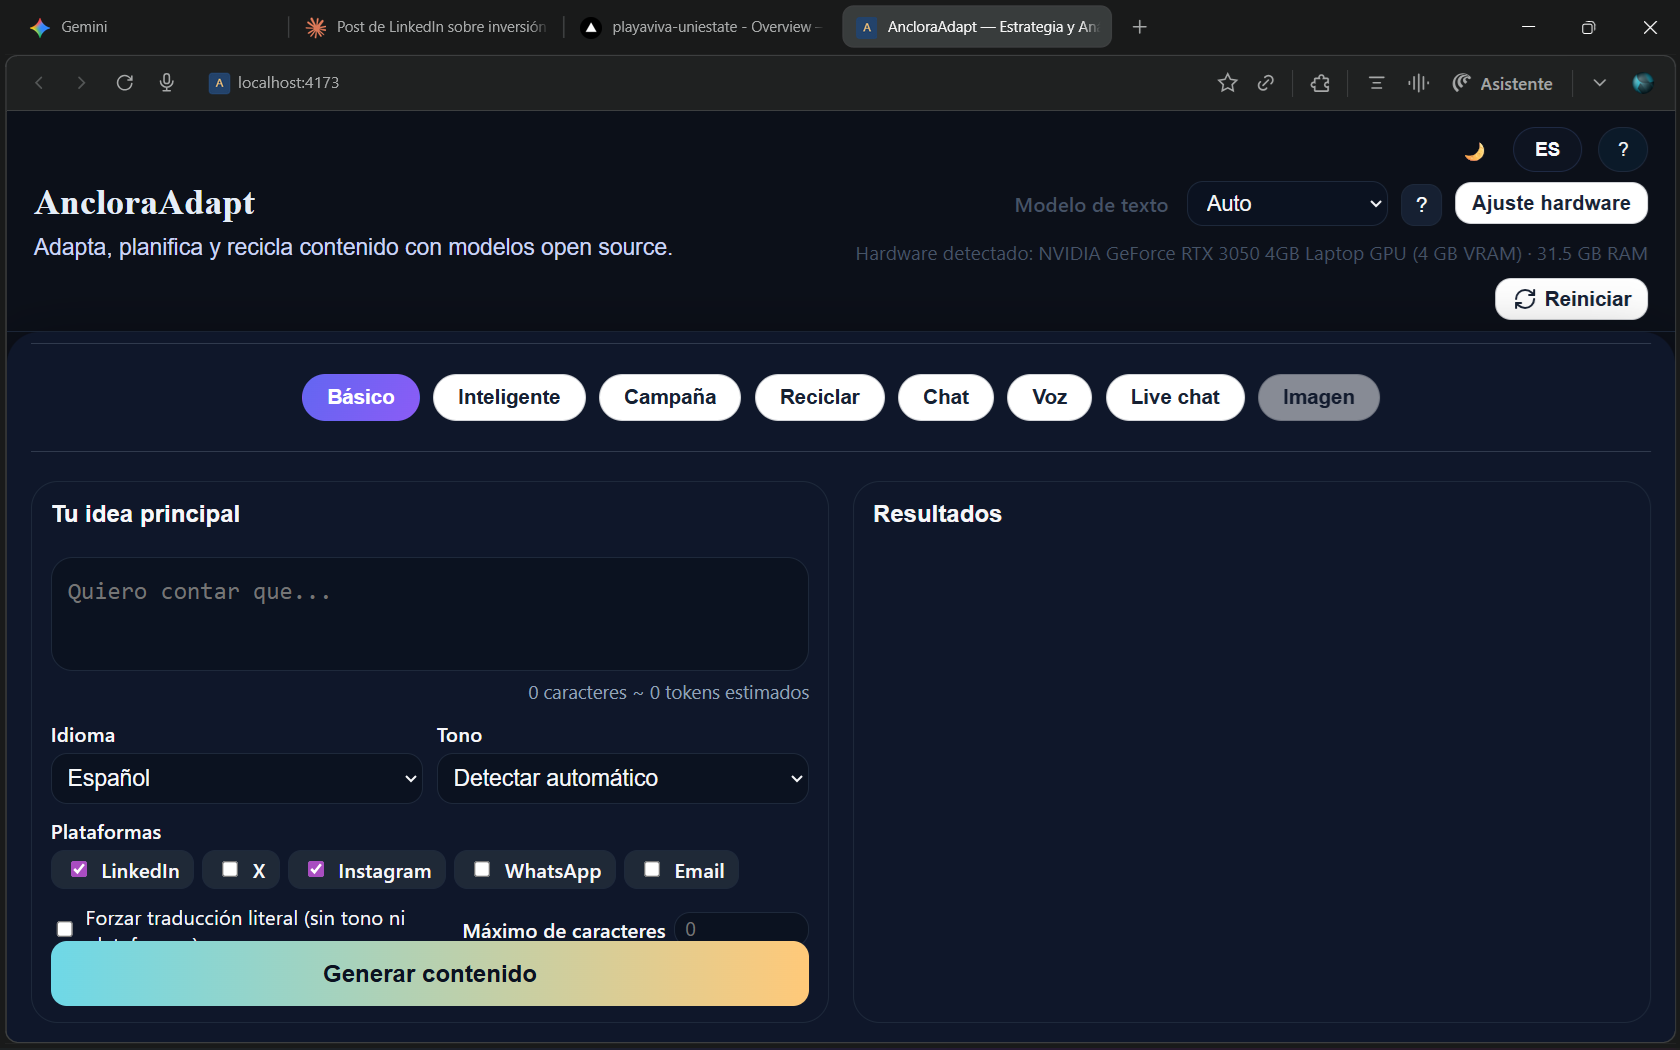
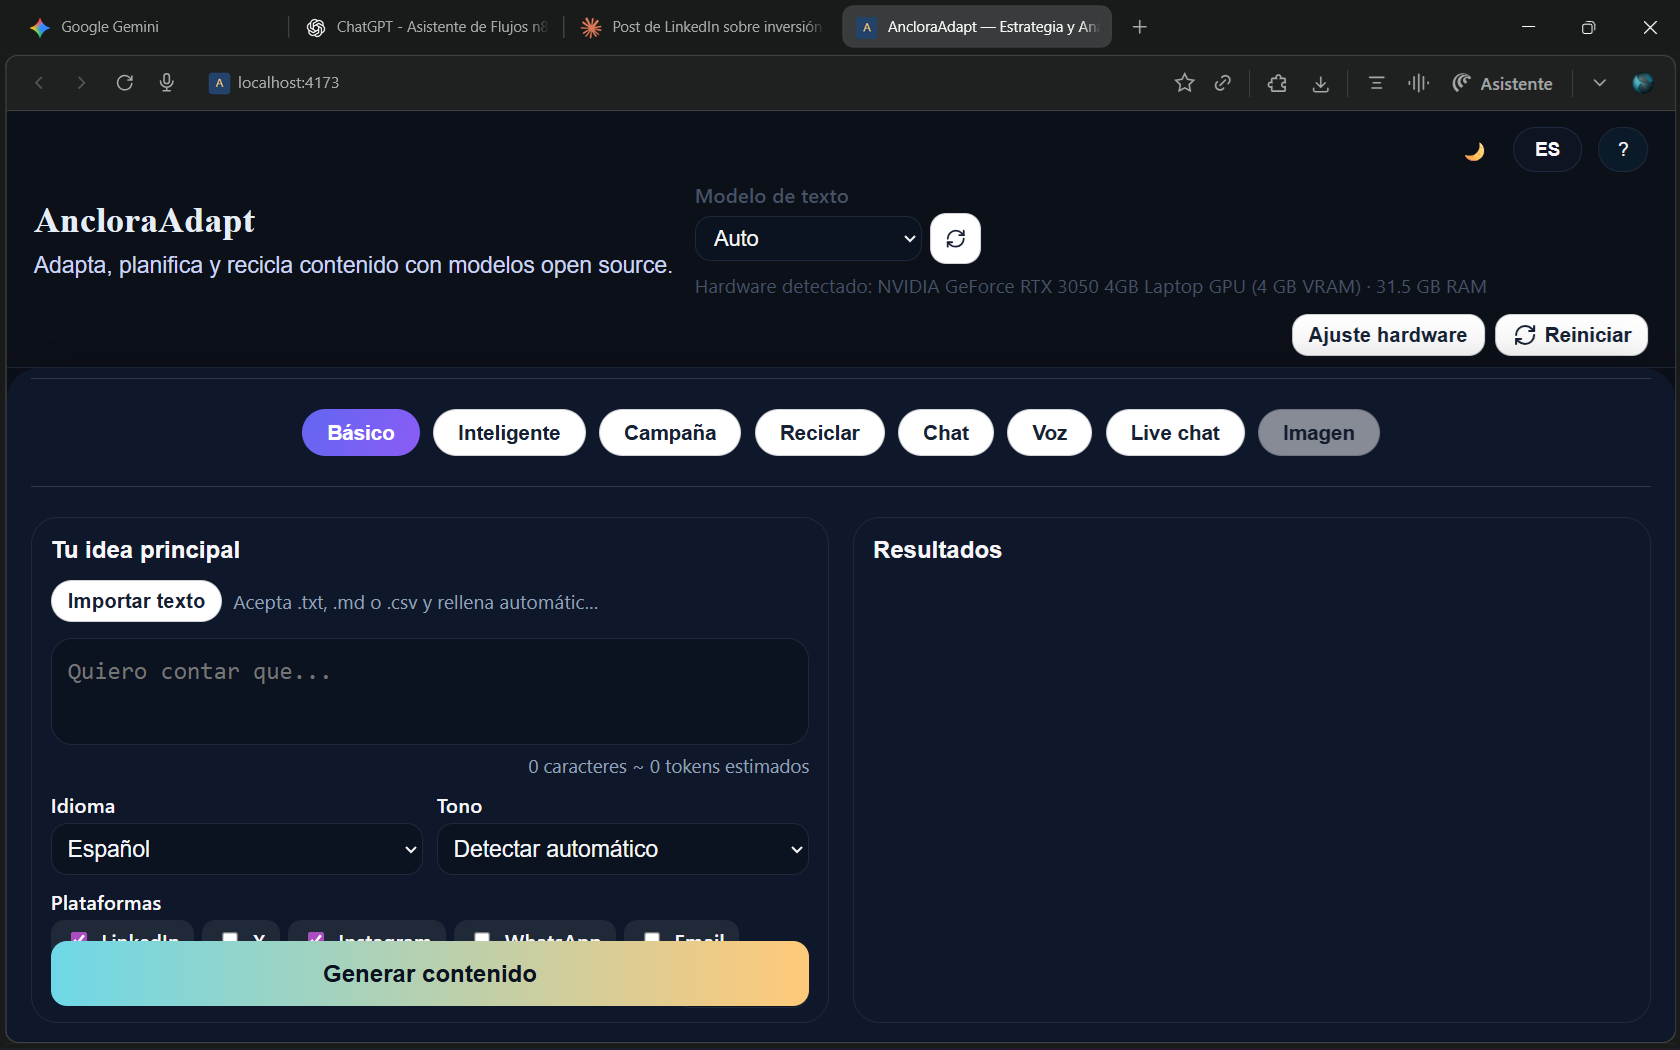
- Alinear la fila de controles: el selector de modelo y el botón de refresco siguen en la     misma línea y ahora los indicadores “Hardware detectado” y, sólo si el modelo está en Auto,     “Modelo usado” se muestran en esa misma fila, junto al selector, sin abrir nuevas líneas     (src/components/l

diff --git a/src/styles/commonStyles.ts b/src/styles/commonStyles.ts
@@ -457,8 +457,9 @@ const commonStyles: Record<string, React.CSSProperties> = {
   },
   settingsGroup: {
     display: "flex",
-    flexDirection: "column",
-    gap: "4px",
+    alignItems: "center",
+    gap: "8px",
+    flexWrap: "wrap",
   },
   settingsActions: {
     display: "flex",
@@ -466,6 +467,17 @@ const commonStyles: Record<string, React.CSSProperties> = {
     gap: "8px",
     flexWrap: "wrap",
     marginLeft: "auto",
+  },
+  settingsInfoRow: {
+    width: "100%",
+    display: "flex",
+    alignItems: "center",
+    gap: "10px",
+    flexWrap: "nowrap",
+    marginTop: "4px",
+    whiteSpace: "nowrap",
+    overflow: "hidden",
+    textOverflow: "ellipsis",
   },
   settingsHint: {
     fontSize: "0.8rem",

diff --git a/src/components/layout/MainLayout.tsx b/src/components/layout/MainLayout.tsx
@@ -211,7 +211,7 @@ const MainLayout: React.FC<MainLayoutProps> = ({
                     {(modelCopy.hardwareDetected || "Hardware detectado")}: {hardwareSummary}
                   </span>
                 )}
-                {lastModelUsed && (
+                {selectedModel === AUTO_TEXT_MODEL_ID && lastModelUsed && (
                   <span style={commonStyles.settingsHint}>
                     {(modelCopy.lastUsed || "Modelo usado")}: {lastModelUsed}
                   </span>
